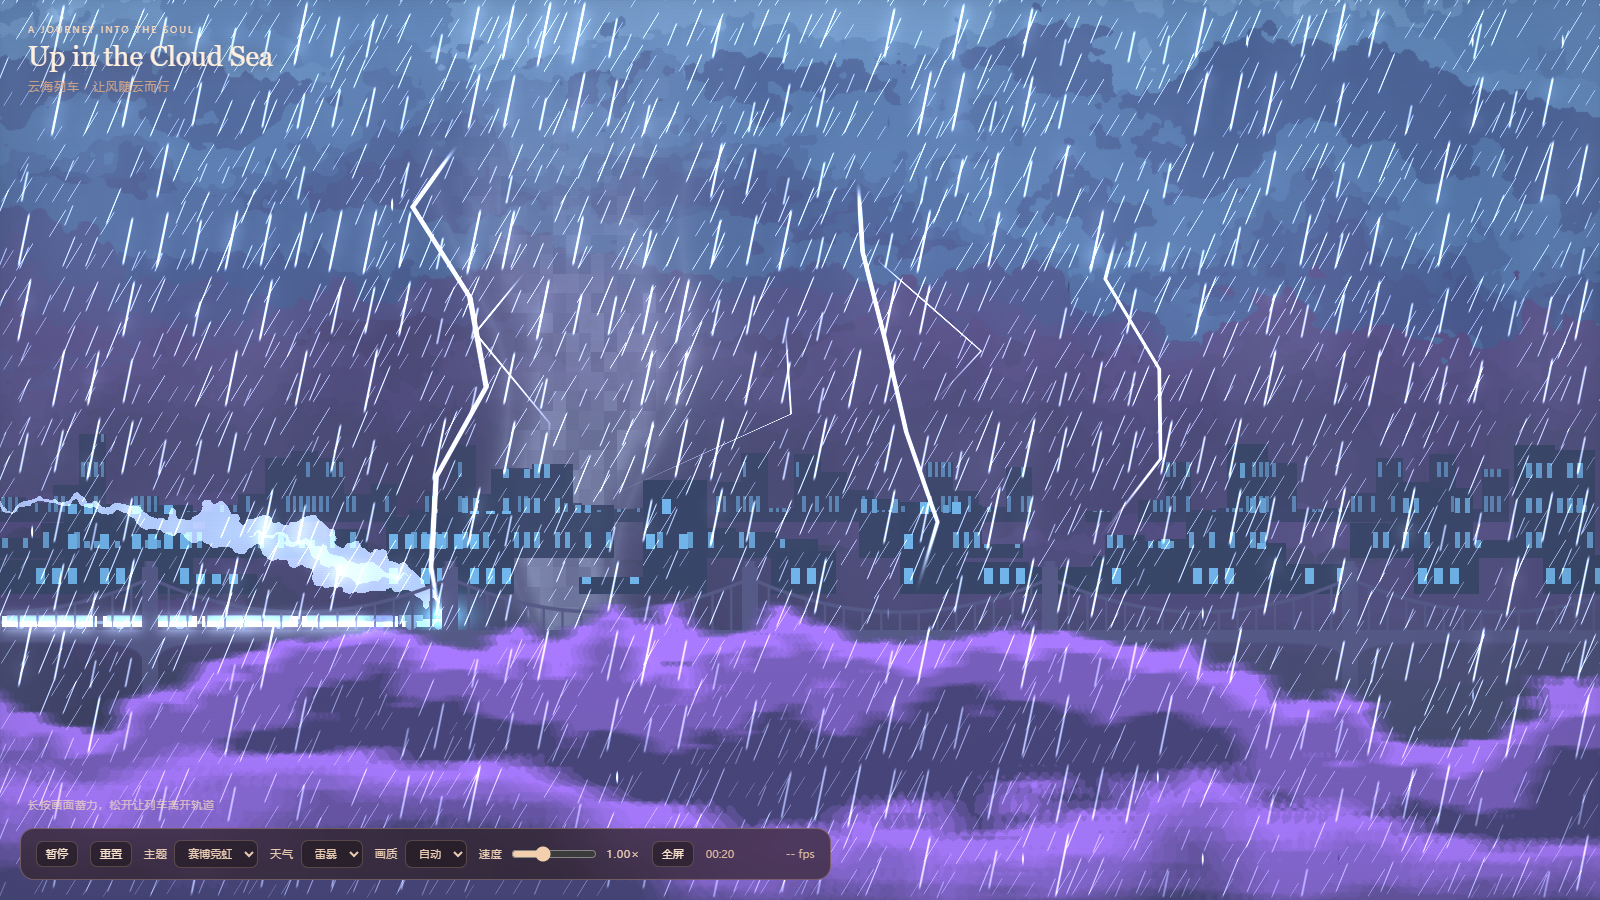
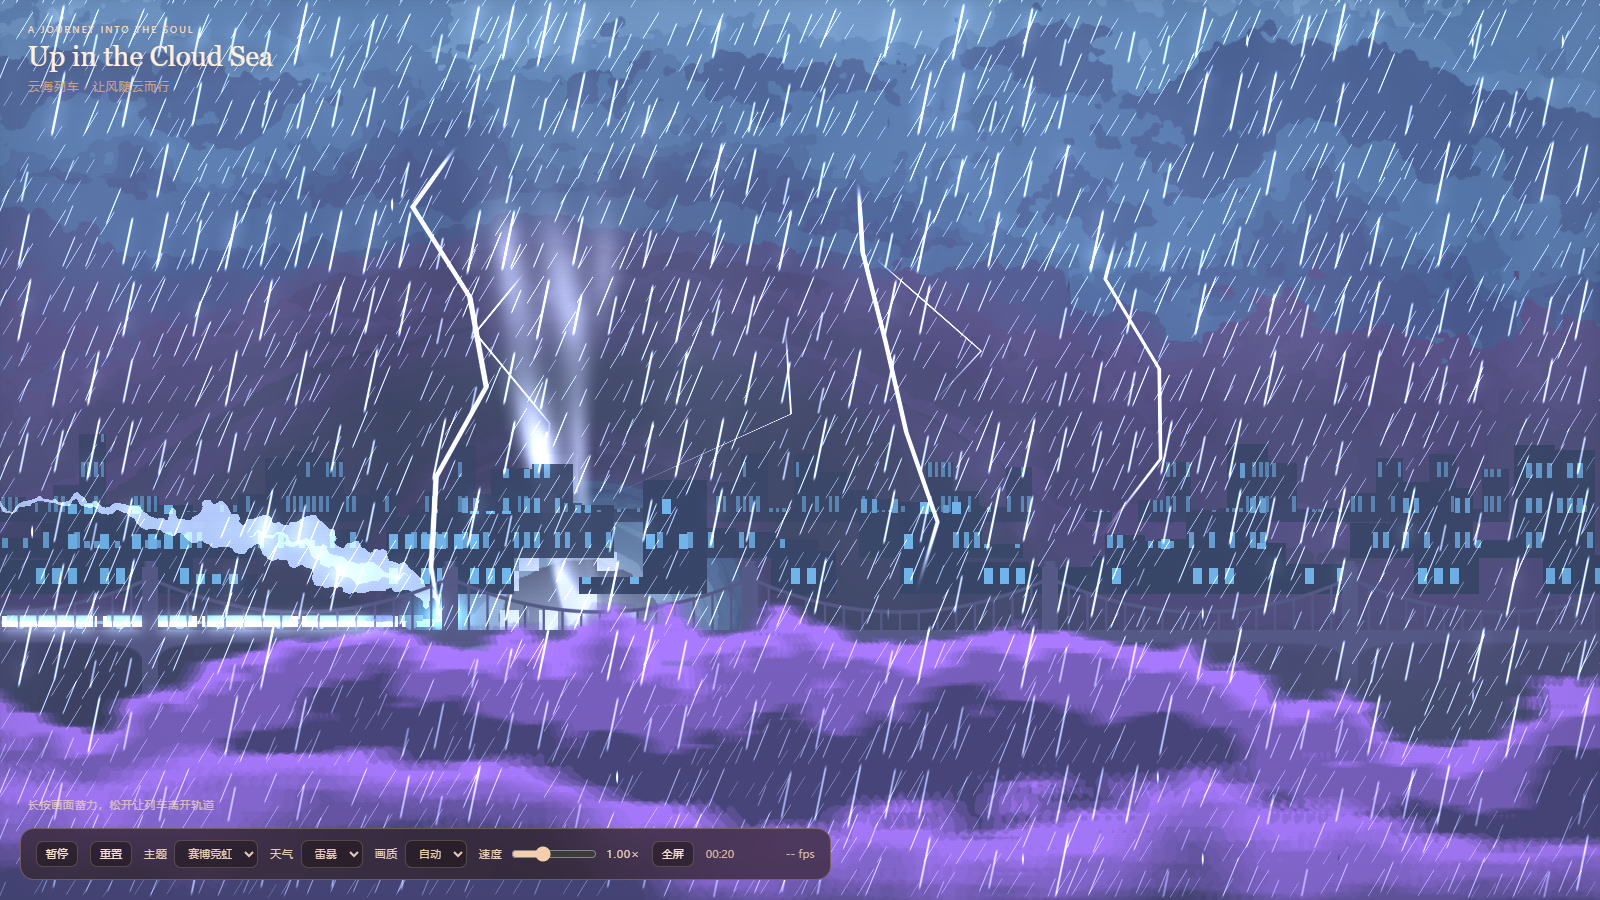
M16: 龙卷挖空云层 + 螺旋漏斗（carve 提到循环外）

Changed region(s): [[0.2188, 0.2489, 0.5, 0.7156]]

diff --git a/docs/开发日志.md b/docs/开发日志.md
@@ -315,13 +315,61 @@ col = mix(col, mistColor, band * uMist);
 
 ---
 
+## 2026-11-18 · M16 龙卷：真的把云挖开 + 看得见的螺旋柱
+
+### 反馈
+
+「灰色龙卷不明显；龙卷没有把云吹散，只是云在扭。」
+
+### 变更一：在云层里挖出真正的缺口
+
+之前只有涡旋扭曲（采样被拧），云还在原处。现在在 `sky.frag` 里直接下压云高：
+
+```glsl
+carveDelta = -smoothstep(0.26, 0.0, tr) * 1.45 * uTornado     // 中心压到天空以下
+           + exp(-pow((tr - 0.27) * 8.0, 2.0)) * 0.38 * uTornado; // 边缘抬一圈云墙
+```
+
+半径 0.26（比漏斗宽）、深度 1.45 —— 12 层云会一起被压穿，露出后面的天空与城市，
+再配合已有的涡旋（角度 5.5、切向拉伸）形成「被吸起来再甩出去」的结构。
+
+### 变更二：漏斗重画
+
+- 下窄上宽：`width = 0.026 + 0.125 * pow(hgt, 1.6)`；
+- 螺旋条纹：`sin(atan(px, py) * 4 + py * 30 - t * 9)`，再叠一层细密竖流线；
+- 底部尘幕 + 碎屑（hash 点）；
+- 颜色从 0.50 提到 **0.74 灰**、混合 0.88、叠一层自发光 —— 这就是「灰色不明显」的直接原因：
+  原来漏斗颜色和暗云几乎同亮度，怎么调都糊在一起。
+
+### 变更三：性能教训（重要）
+
+第一版把挖空写在 12 层云的循环里，每个像素算 12 次 `smoothstep + exp + pow`：
+**1080p 从 8.88 ms 涨到 11.79 ms**，直接贴近 12 ms 门禁。
+
+挖空对所有层的偏移是同一个标量，所以提到循环外算一次、循环里只做 `h += carveDelta`：
+帧时回到 **8.88 ms**。这是这个项目里最典型的一课 —— 任何「每层都算一遍」的项，先问能不能提到循环外。
+
+### 数据
+
+- 1080p 雷暴：8.88 ms（与改动前持平）；
+- 截图对比：`shots/tornado-compare.png`（左：模糊灰柱、云完好；右：亮灰螺旋柱 + 云被挖开、可见城市）；
+- `verify.ps1` 8/8 通过。
+
+### 还可以更好
+
+- 龙卷的「云臂」（被甩出的螺旋云带）目前只是边缘抬升，没有真正的长臂；
+- 漏斗顶部可以加更宽的喇叭口；
+- 碎屑可以做成真正的粒子，而不是 hash 点。
+
+---
+
 ## 待办（按优先级）
 
 1. **音频**：风声（随天气变化）、雷声、起飞音效——M9 唯一没兑现的项；
    （雨丝质感：M12–M15 已完成，剩雨簇疏密与水花）
-2. **龙卷挖空云层**：现在只有涡旋扭曲，没有真正的缺口；
+2. ~~**龙卷挖空云层**~~：已完成（M16：挖空 + 螺旋漏斗），剩云臂与碎屑粒子；
 3. **竖屏构图**：430×860 下 `uv.x` 只有 0.5，列车占比过大，需要给云层一套纵向参数；
 4. **飓风的体感**：目前靠风速与粒子漂移，可再加画面轻微抖动与云的横向拉伸；
 5. **飞行姿态**：抬轮/倾斜、车体轮廓光、发光尾迹（现在飞起来像一道光）；
 6. **雷暴云增厚**：雷暴时 `disp` 放大或加两层云，让云真正"压下来"；
-7. 美术遗留：水墨墨线、仙鹤造型、极光混色。
+7. 美术遗留：废墟墨线、仙鹤造型、极光混色。
